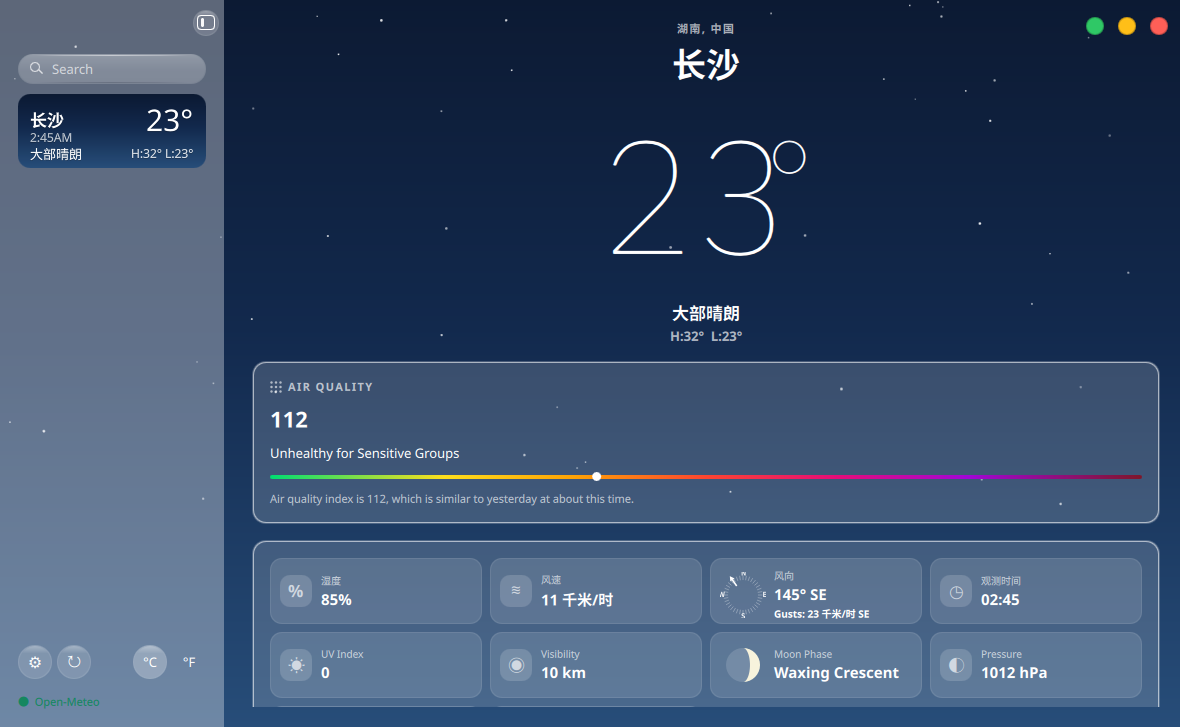
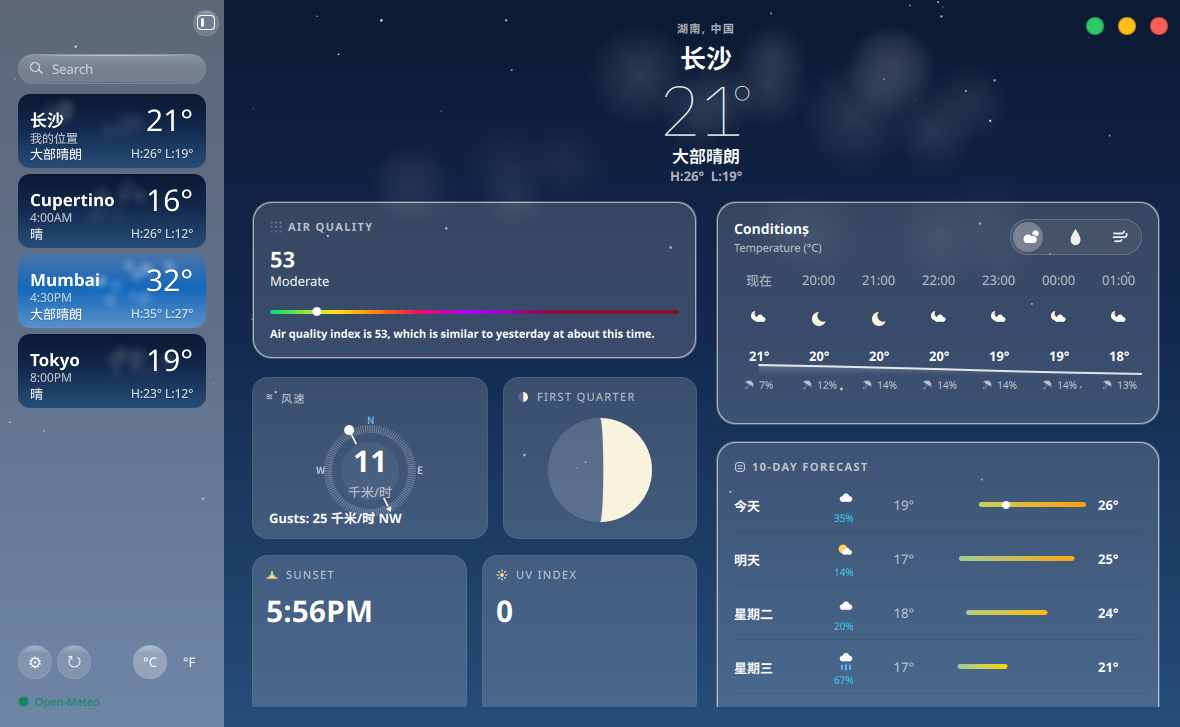
docs: round 49 进度与截图

diff --git a/docs/ui-weather/LEDGER.md b/docs/ui-weather/LEDGER.md
@@ -4,6 +4,8 @@
 参考实测色（814×498 主图采样）：天空 `#2961a7→#1469bc→#538ec9`（上→下，含云照片）；Conditions 卡 `#0057b2`；hero 文本 `#ffffff`；10天条渐变 青→黄→橙。
 
 ## 已改
+- **侧栏选中卡副行 "My Location"（本轮，前端）**：参考 tile-sidebar 首卡（选中=My Location 城）副行是 "My Location"、其余未选卡才是当地时间（Chicago 11:41AM / Cape Town 6:41PM / Mumbai 10:11PM），我方选中卡此前与未选卡同显当地时间（仍差 0d 收口）。`apps/weather/qml/Main.qml:1241-1246` 副行 Label text 三元改为 `savedLocation.highlighted ? qsTr("My Location") : 原逻辑`（visible/color/font/样式全部不动）；`apps/common/translations/kos_apps_zh_CN.ts:623-628` Main context 追加 "My Location"→"我的位置"（en_US.ts 不动，该文件只存复数条目；qt_add_translations 构建时自动重出 .qm，282 条全 finished）。
+  **实测**（截图 1792322080 过体检闸 ✅ 1180×727，本轮二进制 dev env）：选中首卡（长沙）副行显示"我的位置"，未选卡 Cupertino 4:00AM / Mumbai 4:30PM 仍显当地时间——与 ref 选中卡 "My Location" + 未选卡时间的结构逐项一致；字号/透明度沿用原副行（12px / 白@0.72，与 ref 副行同槽位）。按 LEDGER 既有裁定简化口径：以"选中卡"代"定位城"（本项目无定位城概念）。测试 Qt 6/6 绿、kos-language-test 5/5（EXPECTED_LANGUAGE=zh）、kos-application-preferences-test 7/7 绿、go test ok。
 - **侧栏多城渲染实拍验证（本轮，纯验证/运维轮，零代码改动）**：dev state `/tmp/kos-weather-test-state/quickshell/shell-data-service/state.json` 的 `weather.locations` 追加 Cupertino(37.32,-122.03, America/Los_Angeles)/Mumbai(19.08,72.88, Asia/Kolkata)/Tokyo(35.69,139.69, Asia/Tokyo) 三城（≤20 城限额内）；service 重启后因 `nextRefreshAt` 未到不拉取（weather.go:755 门控）——置 0 再重启强制刷新后 4 城 summary 全部取到（长沙 20.6 夜 / Cupertino 15.7 夜 / Mumbai 32.3 昼 / Tokyo 19.2 夜）。
   **实测**（截图 1792321838 过体检闸 ✅ 1180×727，本轮二进制 dev env）：4 城卡正确渲染——各城当地时间按各自时区（4:00AM/4:30PM/8:00PM）、温度/H·L 与 summary 一致（32.3→32°、35/27）、Mumbai 昼卡云纹理在场、夜卡月牙/淡云正常、选中卡（长沙）在顶无选中描边（贴参考）。同轮对照 tile-sidebar 参考逐项核对：结构吻合（城市名/副行/条件文字左下/H·L 右下/无边框选中态）。**顺带复核**（截图 1792321463，单城态）：左列 masonry 残差收口（见仍差 0 条勘误注）。测试 Qt 6/6 绿、go test ok。**新发现记入仍差 0d**：参考选中卡副行是 "My Location" 而非时间。
 - **10 天行温度区间条去灰色轨道（本轮，前端，零 Go/C++/shared/翻译改动，巡检轮新发现）**：巡检截图（tmp/shots/patrol-1792320809.png 过体检闸 ✅ 1180×727，dev env + KOS_SCREENSHOT_DELAY_MS=2500）对照 ref-main 逐像素测量发现——参考 10 天行**没有灰色轨道**：Thu 行（y384）渐变墨迹单独落在 x642-698（56px），其外 x702-714 采样 = 纯卡面色 (42,109,179) 与卡面其他位置同值、无任何轨道；且 5 行墨迹起止与"按全周 [最低低/最高高] 定位"模型全部吻合（低 54→x642、低 57→x648-650，~2.3px/°@814；Today 650-692、Thu 642-698、Fri 642-689、Sat 648-692，含 Today 行白点 x674-677）。我方旧轨道 Rectangle（白@0.28）实测 (117,135,159) vs 卡面 (64,89,122)，Δ+53 明显可见，属参考图不存在的发明元素。`apps/weather/qml/Main.qml` 删除 dailyRow 条形内轨道 Rectangle（原 3169-3175，7 行），渐变段与 Today 白点不动，原位补 ref 依据注释（现 3169）。
@@ -330,7 +332,7 @@
 - `shared/qml/foundation/KosApplicationWindow.qml:20`：按用户裁定，`windowCornerRadius` 32→8。注意这是共享组件，其他 modernDesign 应用窗口圆角同步变为 8px。
 
 ## 仍差（按视觉冲击排序）
-0d. **侧栏选中卡副行：参考首卡（选中=My Location 城）副行是 "My Location"，我方首卡仍显示当地时间**（本轮多城实拍新发现，前端轮候选）：ref tile-sidebar 首卡 Cupertino 选中态副行 "My Location"，其余未选卡才是当地时间（Chicago 11:41AM / Antarctica 12:41PM / Cape Town 6:41PM / Mumbai 10:11PM）；我方 4 城实拍（截图 1792321838）首卡长沙显示 "7:00PM" 与未选卡同形态。改法候选：选中卡副行显示本地化"我的位置"（需新增 qsTr 串 + en/zh 条目），仅选中卡、仅当该城为当前定位城时（本项目无"定位城"概念，暂按"选中卡"简化，依据=ref 唯一选中卡即 My Location 卡）。
+0d. ~~**侧栏选中卡副行：参考首卡（选中=My Location 城）副行是 "My Location"，我方首卡仍显示当地时间**~~（**已做**，见已改"侧栏选中卡副行 My Location"——选中卡显示"我的位置"，未选卡维持当地时间，截图 1792322080 实测逐项一致）。
 6. ~~侧栏只有 1 个城市时卡下方大片空白（参考有多城填满）；无数据可解，仅记录~~（**多城已实拍验证收口数据侧**，2026-10-18 多城轮：dev state 加 Cupertino/Mumbai/Tokyo 三城 + 强制刷新取到 summary，截图 1792321838 实拍 4 城卡正确渲染——各城当地时区时间（4:00AM/4:30PM/8:00PM）、温度、H·L、Mumbai 昼卡云纹理、选中卡在顶，均正确；卡区 y95-410 填满后下方空白随城数收缩，系数据量问题非 bug。生产单城空白维持"仅记录"）。
 0c. ~~**dailyCard（10 天卡）间歇性不渲染**~~（**已收口，见已改首条——根因是 `--screenshot` 固定 650ms 抓帧与 socket 异步数据到达的竞态，非布局 bug**；探针实证 dailyCard 代码健康（colImpl 0→401 异步、impl 437=row 值+padding 36、row/col 1/1 正确），padding 两行被探针实验排除嫌疑。**以后轮验证截图一律加 `KOS_SCREENSHOT_DELAY_MS=2500`**，遇"卡缺失"帧先加延迟重拍再怀疑布局）。
 0. **主区版式：参考是双列卡片 masonry（步 a+c 已完成，步 b 第一半=结构迁入已完成，见已改）**：ref-main（814×498）实测内容区两列——左列 AQ 卡（半宽）+ WIND/MOON PHASE 大方卡并排 + SUNSET/UV INDEX 并排，右列 Conditions 卡（含逐小时）+ 10 天卡。**步 a 已完成**（AQ+Conditions 并排两列等宽、顶对齐、列缝 ~19px）；**步 c 已完成**（10 天卡入右列）；**步 b 第一半已完成**（瓦片区入左列 AQ 下方 2 列、AQ→瓦顶 20px 精确、86px 天窗消除，见已改）。**步 b 第二半进行中（瓦片形态改参考大方卡）：WIND 卡已完成**（见已改——罗盘居中+速度环心+Gusts 底行，卡高 162 精确、数字字形 21px vs 目标 22）；**月相卡已完成**（见已改——头部相位名 caps+中央大月亮 d104，162px 高，WIND/月相对半并排 234/19/190 实测 vs 目标 235/15/193，缝 +4px 残差）；**SUNSET 卡已完成**（见已改首条——头部 glyph+SUNSET caps+左对齐大号时间 30px，162px 高、全宽跨 2 列中间态，缝 17px 精确、墨顶 +44 精确）。**UV 大方卡已完成**（见已改首条——SUNSET/UV RowLayout 等分 214/15/214，实测 213/17/213 等宽，大数字 30px ink 21px 与 SUNSET 同高；旧 66px UV 瓦删除）。**步 b 第二半至此收口：四张参考大方卡（WIND/月相/SUNSET/UV）全部成形**。剩余：湿度/观测时间/FEELS LIKE/PRESSURE/VISIBILITY 参考无对应卡，按 Apple 惯例落位——**折叠线下回流已实拍复核收口（见已改首条）**：VISIBILITY/PRESSURE 成对、FEELS LIKE 独占一格（右侧空格是否拉满待裁定）；compact 单列顺序变化（现 WIND+月相→SUNSET+UV 对半→湿度/观测时间→VISIBILITY/PRESSURE→FEELS LIKE→Conditions→10 天）**已实拍复核收口**（见已改首条——760 窄窗两 probe 实拍逐项一致、无重叠无裁切）；空态半宽**已实拍复核收口**（见已改"空态文字可读性修复"条——半宽居中渲染健康，顺带修掉标题近黑不可读缺陷）。残差：a) ~~Conditions 半宽下逐小时可见 ~3.5 列 vs ref 半宽 6 列~~（**已做**，见已改"逐小时列密度校准"——列距 60px 精确、可见 7 列）。
@@ -355,6 +357,7 @@
 15. ~~**分段胶囊水滴 glyph 偏小**~~（**已做**，见已改首条——canvas 12×16→15×20 坐标 ×1.25，墨 8×11→9×15、相对比 0.306→0.417 vs ref 0.386；残差：宽 −1/高 +1 反向各 1px，AA 级不再动。**注意**：同族"云+日偏小"不成立（勿动）；风 glyph 邻域吻合（✓），两条防误改裁定继续有效）。
 
 ## 外推待确认
+- **"My Location" 以"选中卡"代"定位城"（本轮新增）**：ref 首卡副行 "My Location" 语义是该城为当前定位城（Apple 有定位概念）；本项目无定位城概念，按 LEDGER 既有裁定简化为"选中的卡就显示"——用户手动选中其他城时该卡也会显示"我的位置"，与 Apple 语义有偏差（ref 中未选中定位卡时应显当地时间）。修法需后端引入定位城 id 概念，暂不立轮。
 - **10 天行轨道删除后极淡轨道不可全排除（本轮新增）**：ref 814 降采样下，若 Apple 原生带 ≤0.08 alpha 的极淡轨道，与卡面 Δ~12 可能被降采样+AA 抹到采样阈值以下——本轮按"可见像素=无轨道"删除（旧白@0.28 实测 Δ+53 远超此限，删除方向不受影响）；若日后拿到原生分辨率参考需复核。
 - **温度曲线带落位对布局偏移敏感（本轮新增）**：曲线带（Main.qml:2677-2679 band 100..110）按"content→real 偏移 +266 + 温度墨底 96 / ☂ 墨顶 114-115"标定，该偏移随 Conditions 卡头部/分段控件上方布局变动而漂移（本轮实证旧值 97..113 就是这样过期的）；未来再动卡头布局需按同法（带值→渲染 real 逐点回归）复测。曲线形态本身仍系用户裁定 1 外推（ref 无曲线），可见段占带比例随快照温度分布浮动（19° 非全天最低时带底不被触及属正常）。
 - **侧栏卡云纹理（本轮新增）**：a) 参考卡背景是**照片**，云的具体形态/覆盖不可程序化逐点复刻——3 朵×4 puff 的 puff 云系主窗 clearSkyClouds/nightClearClouds 同族近似，透明度按"ref Mumbai 夜卡 Δ~11-14 / 我方夜 Δ+35 略强、Cupertino 日卡明显更亮"折中，若要求更贴照片需整体重校；b) ~~晴日卡（code 0-1 日间）形态系外推——日分支未实拍~~（**2026-10-18 多城轮已实拍**：Mumbai 32° code 1 昼卡（截图 1792321838）云带在场、白字可读，形态与参考 Cape Town 昼卡同构；覆盖密度系程序化近似不可逐点对照的结论不变）；c) 多城时各卡种子不同（index 派生），卡间形态差异系程序化设定（ref 各卡来自真实城市照片），方向一致不可逐卡对照——多城实拍下 4 卡形态各异、无越界无裁切；d) 夜卡云上白字可读性实测通过（Δ+35 底上峰值白字），更高 opacity 档不再上调。
